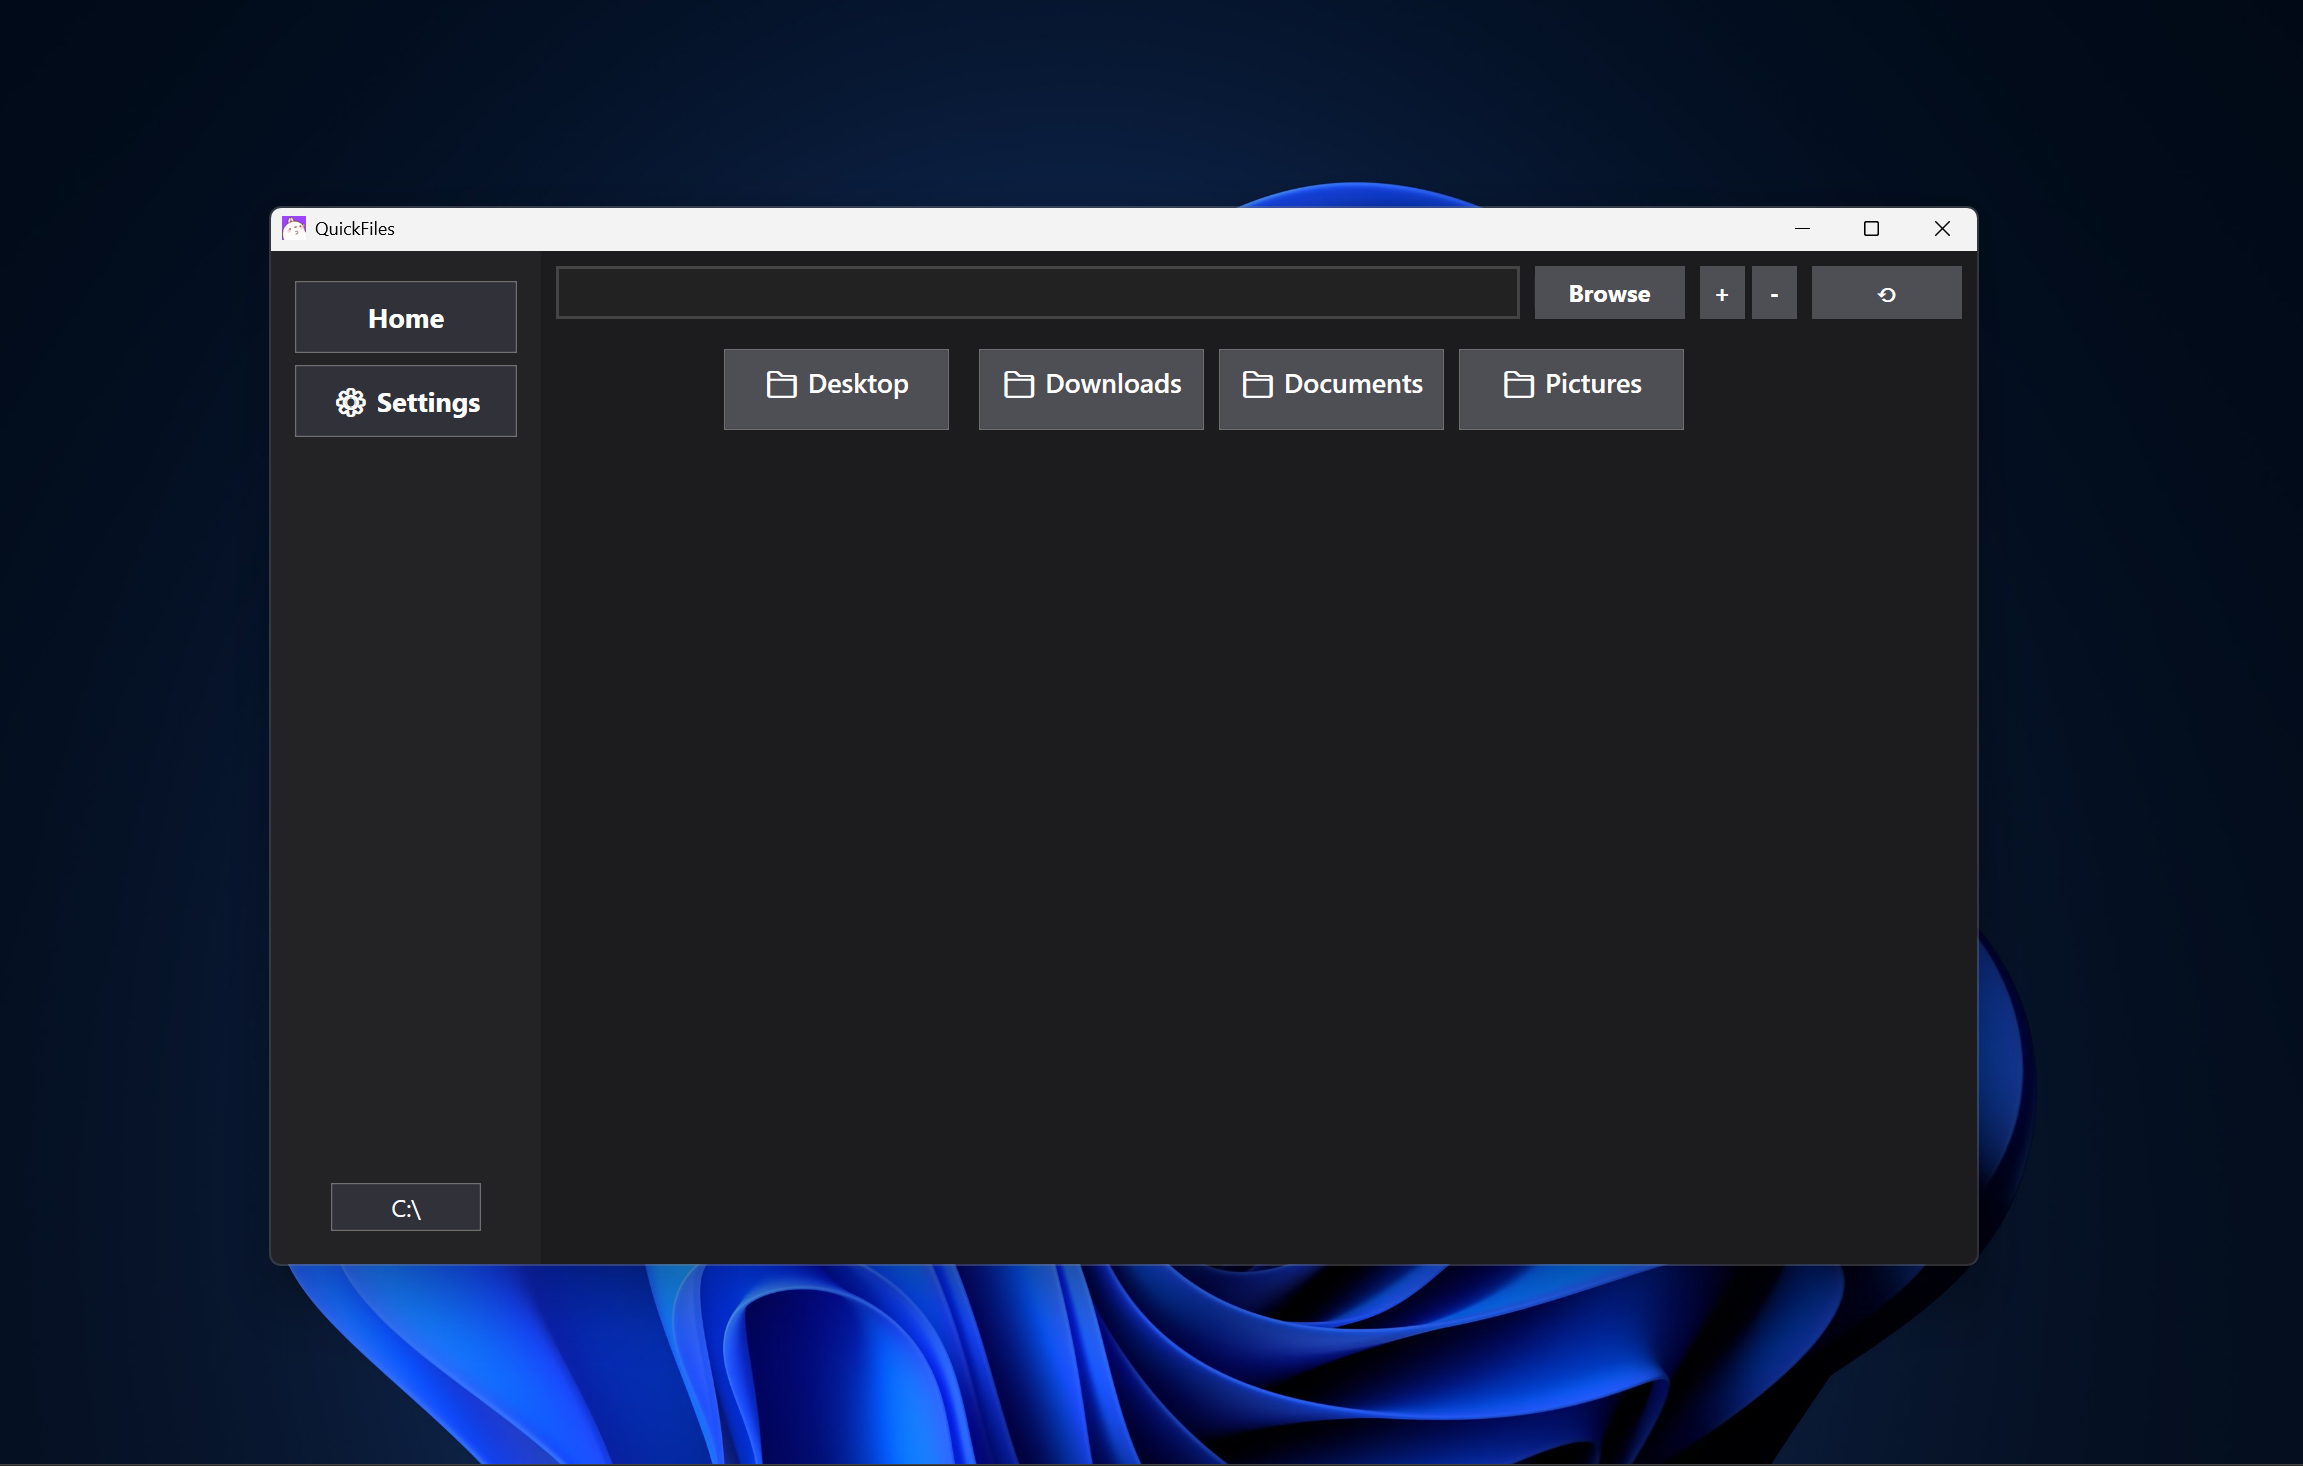
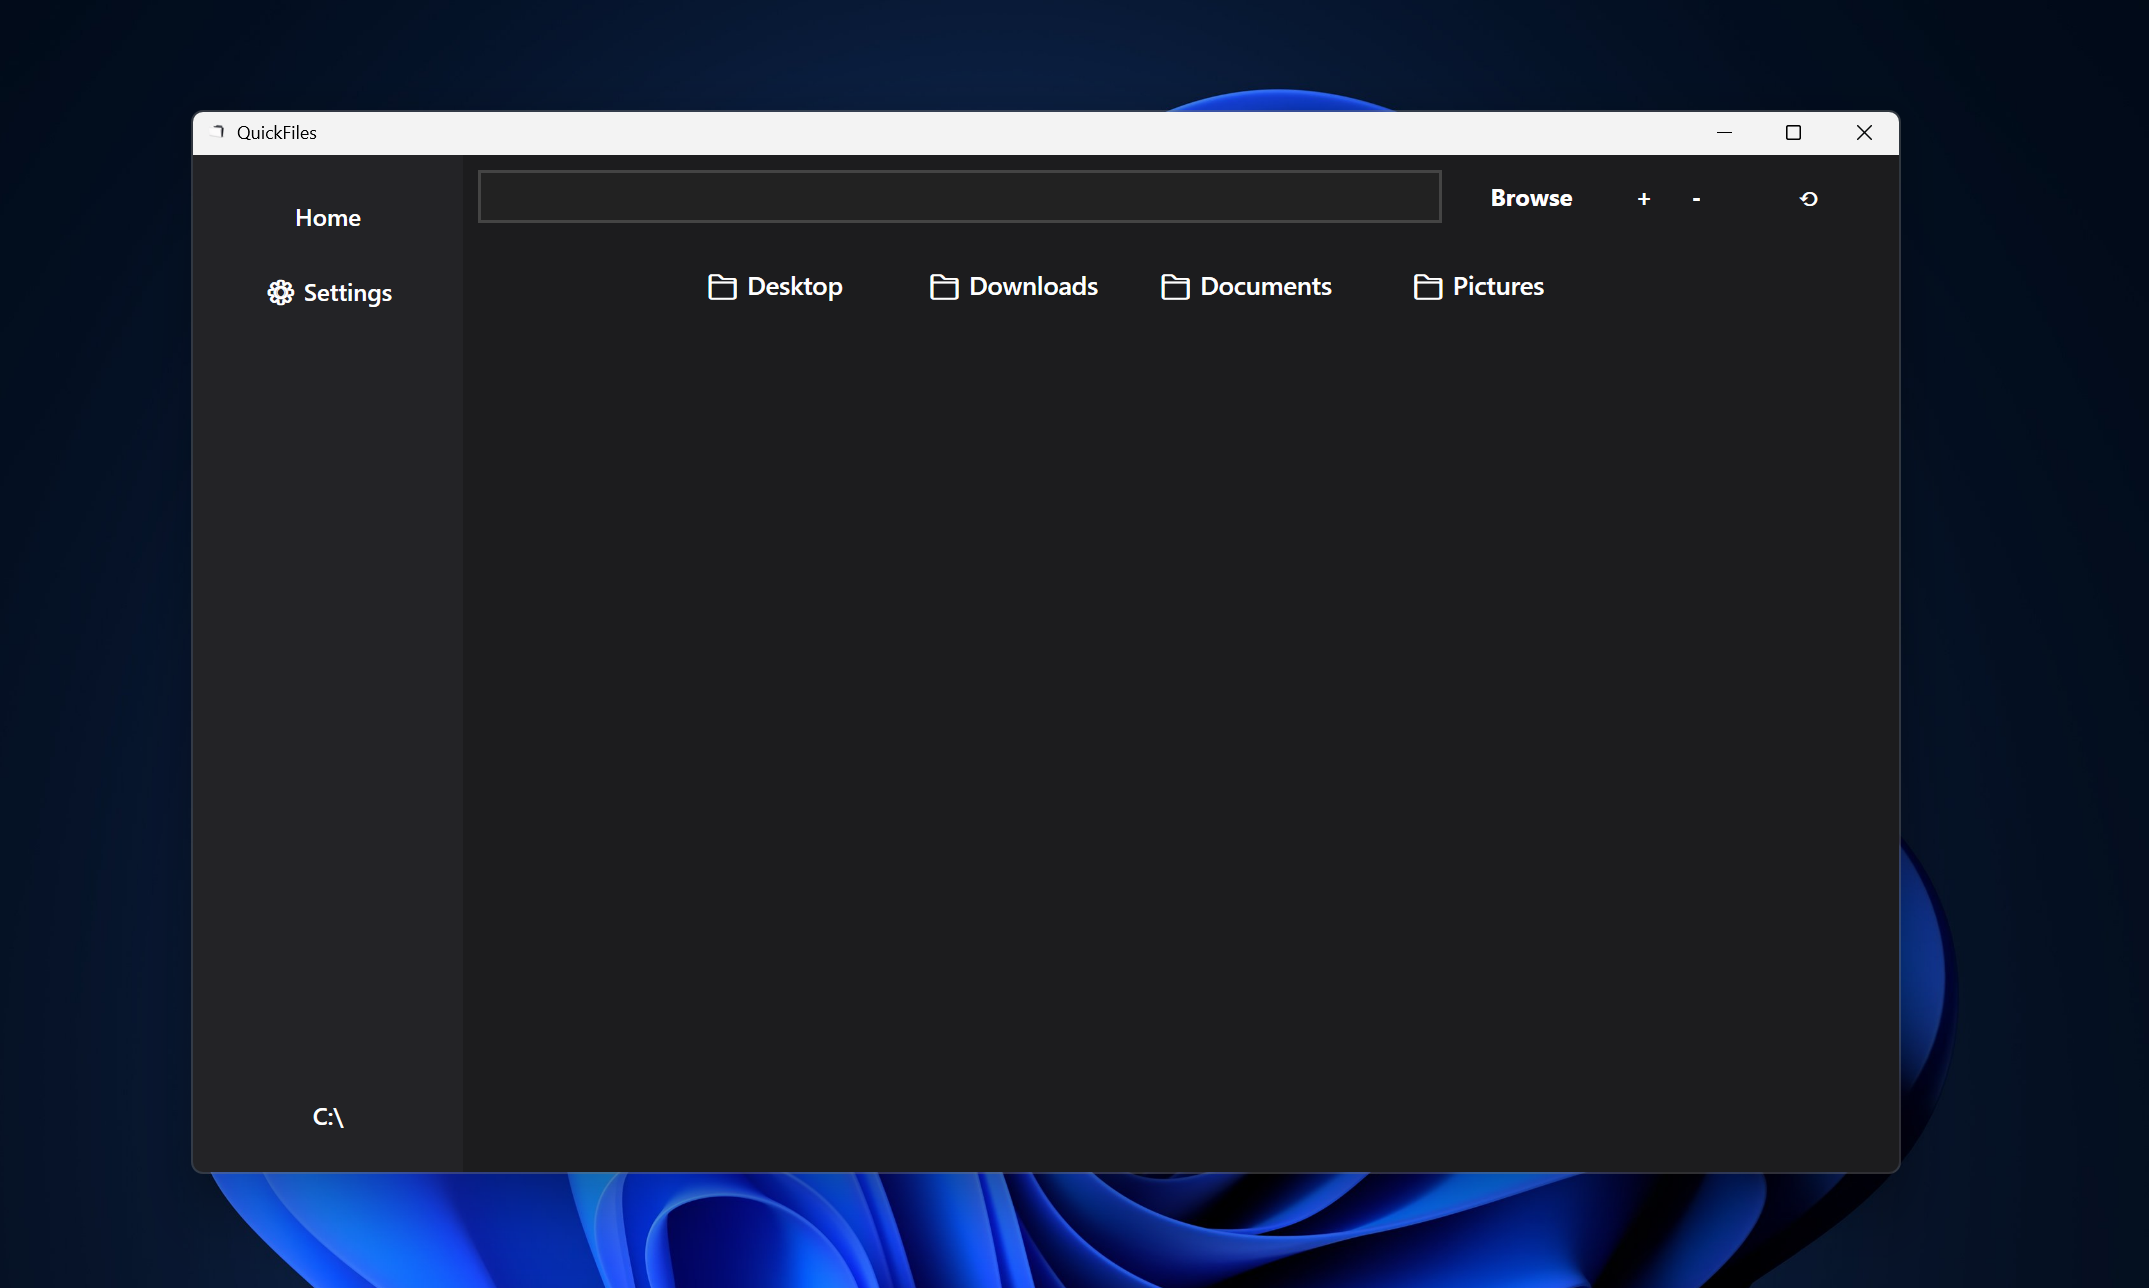
fix: forgot to add the styles to the main buttons, and update preview screenshot

Changed region(s): [[0.0, 0.0621, 1.0, 1.0], [0.873, 0.8696, 0.9041, 0.9006]]

diff --git a/src/Views/Home/HomePage.xaml b/src/Views/Home/HomePage.xaml
@@ -9,7 +9,38 @@
     <Grid Background="#1C1C1E">
         <!--main button styles-->
         <Grid.Resources>
-                        <!-- and listbox hover colur too -->
+             <!-- other main button styles too -->
+            <Style x:Key="MainButtonStyles" TargetType="Button">
+                <Setter Property="Background" Value="Transparent"/>
+                <Setter Property="BorderBrush" Value="Transparent"/>
+                <Setter Property="BorderThickness" Value="0"/>
+                <Setter Property="Foreground" Value="White"/>
+                <Setter Property="FontSize" Value="16"/>
+                <Setter Property="FontWeight" Value="SemiBold"/>
+                <Setter Property="Cursor" Value="Hand"/>
+                <Setter Property="SnapsToDevicePixels" Value="True"/>
+                <Setter Property="Template">
+                    <Setter.Value>
+                        <ControlTemplate TargetType="Button">
+                            <Border x:Name="border" Background="{TemplateBinding Background}" BorderBrush="{TemplateBinding BorderBrush}" BorderThickness="{TemplateBinding BorderThickness}">
+                                <ContentPresenter HorizontalAlignment="Center" VerticalAlignment="Center"/>
+                            </Border> 
+                            <ControlTemplate.Triggers>
+                                <Trigger Property="IsMouseOver" Value="True">
+                                    <Setter TargetName="border" Property="Background" Value="#31313A"/>
+                                </Trigger>
+                                <Trigger Property="IsPressed" Value="True">
+                                    <Setter TargetName="border" Property="Background" Value="#44444A"/>
+                                </Trigger>
+                                <Trigger Property="IsEnabled" Value="False">
+                                    <Setter TargetName="border" Property="Opacity" Value="0.5"/>
+                                </Trigger>
+                            </ControlTemplate.Triggers>
+                        </ControlTemplate>
+                    </Setter.Value>
+                </Setter>
+            </Style>
+                        <!-- and listbox hover colour too -->
                         <Style x:Key="NoBlueListBoxItem" TargetType="ListBoxItem">
                             <Setter Property="Background" Value="Transparent"/>
                             <Setter Property="Foreground" Value="White"/>
@@ -115,16 +146,14 @@
                     </Grid.ColumnDefinitions>
                     <!-- all main buttons -->
                     <TextBox Name="inputFilePathBox" Grid.Column="0" Height="35" Margin="0,0,10,0" Padding="8,4" Background="#222" BorderBrush="#444" BorderThickness="2" FontSize="18" FontWeight="SemiBold" Foreground="White" Text=""/>
-                    <Border Grid.Column="1" Width="100" Height="35" Margin="0,0,10,0" Background="#31313A" CornerRadius="8">
-                        <Button Name="browse" Padding="10,5" Background="#4E4E55" BorderThickness="0" Click="BROWSE" Content="Browse" Cursor="Hand" FontSize="16" FontWeight="Bold" Foreground="White"/>
-                    </Border>
-                    <Button Name="plusfile" Grid.Column="2" Width="30" Height="35" Margin="0,0,5,0" Padding="0" Background="#4E4E55" BorderThickness="0" Click="ADD" Cursor="Hand">
+                    <Button Name="browse" Grid.Column="1" Width="100" Height="35" Margin="0,0,10,0" Padding="10,5" Style="{StaticResource MainButtonStyles}" Click="BROWSE" Content="Browse" FontWeight="Bold"/>
+                    <Button Name="plusfile" Grid.Column="2" Width="30" Height="35" Margin="0,0,5,0" Padding="0" Style="{StaticResource MainButtonStyles}" Click="ADD">
                         <TextBlock Margin="0" HorizontalAlignment="Center" VerticalAlignment="Center" FontSize="16" FontWeight="bold" Foreground="White" Text="+"/>
                     </Button>
-                    <Button Name="deleteFile" Grid.Column="3" Width="30" Height="35" Margin="0,0,10,0" Padding="0" Background="#4E4E55" BorderThickness="0" Click="DELETE" Cursor="Hand">
+                    <Button Name="deleteFile" Grid.Column="3" Width="30" Height="35" Margin="0,0,10,0" Padding="0" Style="{StaticResource MainButtonStyles}" Click="DELETE">
                         <TextBlock Margin="0" HorizontalAlignment="Center" VerticalAlignment="Center" FontSize="16" FontWeight="bold" Foreground="White" Text="-"/>
                     </Button>
-                    <Button Name="refressh" Grid.Column="4" Width="100" Height="35" Padding="0" Background="#4E4E55" BorderThickness="0" Click="REFRESH" Cursor="Hand">
+                    <Button Name="refressh" Grid.Column="4" Width="100" Height="35" Padding="0" Style="{StaticResource MainButtonStyles}" Click="REFRESH">
                         <TextBlock Margin="0" HorizontalAlignment="Center" VerticalAlignment="Center" FontSize="16" FontWeight="bold" Foreground="White" Text="⟲"/>
                     </Button>
                 </Grid>
